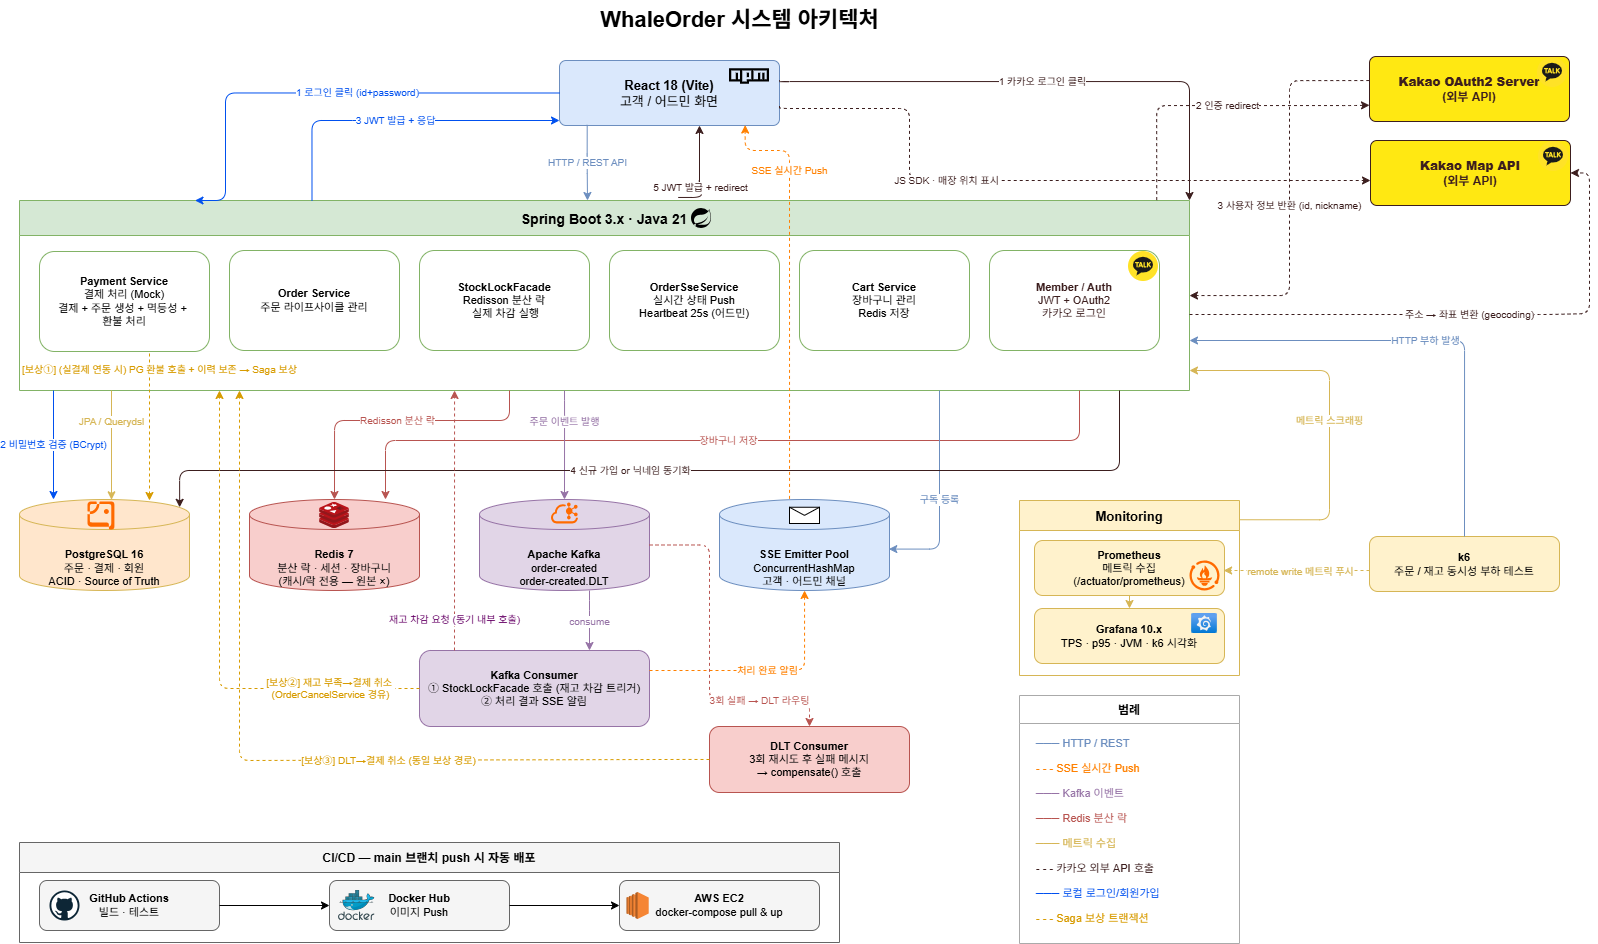
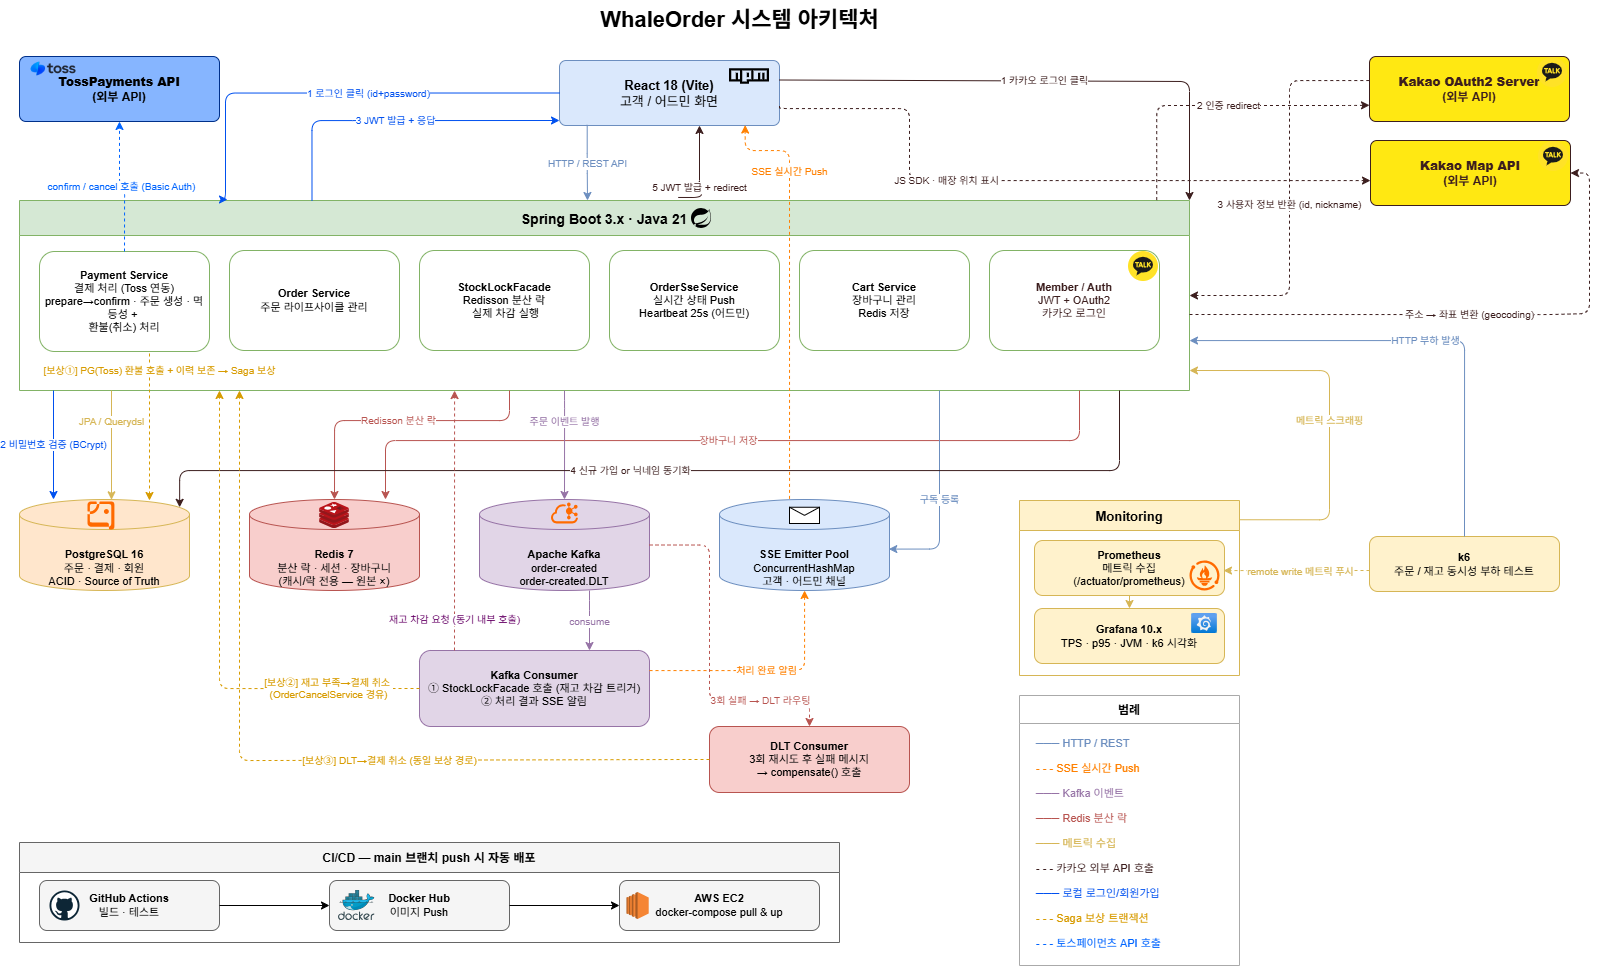
문서 수정

diff --git a/docs/wiki/architecture/overview.md b/docs/wiki/architecture/overview.md
@@ -14,37 +14,49 @@
 | Messaging | Kafka | 주문 처리 비동기화, DLT 기반 보상 트리거 |
 | Monitoring | Prometheus + Grafana + Micrometer | 메트릭 수집/시각화 |
 | 부하 테스트 | k6 | 일반 부하 + 동시성 검증 |
+| 결제 PG | TossPayments 결제위젯 v2 (외부 API) | prepare→confirm 승인/취소 실연동 |
 
-## 주요 흐름 — 선결제
+## 주요 흐름 — 결제(선결제, Toss 연동)
 
 ```
 [Client]
-   │ ① POST /api/payments
+   │ ① POST /api/payments/prepare   (표시 금액 확인)
    ▼
-[PaymentService.pay()]  @Transactional
+[PaymentService.prepare()]  @Transactional
    │ ② 장바구니 + 매장 OPEN + 메뉴 isOnSale + Stock 검증
-   │ ③ SHA-256 멱등성 키 (중복 결제 방어)
-   │ ④ Orders + Payment(PENDING) 저장
-   │ ⑤ Mock 결제 판정 (90% 성공)
-   │ ⑥ 성공: Payment SUCCESS + OrderCreatedEvent publish
-   │ ⑦ 실패: 전체 롤백 + PaymentFailedException
+   │ ③ SHA-256 멱등성 키 (중복 요청 방어)
+   │ ④ Orders(AWAITING_PAYMENT) + Payment(PENDING) 저장
+   │ ⑤ { tossOrderId, amount } 반환
+   ▼
+━ 프런트: 토스 결제위젯(widgets.requestPayment) 오픈 → 사용자 결제 ━
+━ 토스가 successUrl로 리다이렉트 (paymentKey·orderId·amount) ━
+   │
+   ▼ ⑥ POST /api/payments/confirm
+[PaymentService.confirm()]  @Transactional(noRollbackFor=PaymentFailedException)
+   │ ⑦ confirm 전용 멱등성 락 + 표시 금액 재검증
+   │ ⑧ TossPaymentClient.confirm() → 토스 실제 승인 API 호출 (Basic Auth)
+   │ ⑨ 성공: order AWAITING_PAYMENT→PENDING + Payment SUCCESS + OrderCreatedEvent publish
+   │ ⑩ 실패(토스 4xx/5xx): Payment FAILED + order.cancelUnpaid() + PaymentFailedException
    ▼
 ━ TX commit ━
    │
 [OrderEventListener]  @TransactionalEventListener(AFTER_COMMIT)
-   │ ⑧ Kafka publish (order-created) + 장바구니 비우기
+   │ ⑪ Kafka publish (order-created) + 장바구니 비우기
    ▼
 [Kafka: order-created]
-   │ ⑨ Consumer 처리
+   │ ⑫ Consumer 처리
    ▼
 [OrderProcessingService]
-   │ ⑩ 재고 차감 (StockLockFacade — 분산락) + SSE 푸시
-   │ ⑪ 차감 실패 시 부분 복구 + OrderCancelService.cancelOrder()
-   │ ⑫ 3회 재시도 실패 시 DLT → compensate() → 주문/결제 동시 취소
+   │ ⑬ 재고 차감 (StockLockFacade — 분산락) + SSE 푸시
+   │ ⑭ 차감 실패 시 부분 복구 + OrderCancelService.cancelOrder() (Toss 환불 호출 포함)
+   │ ⑮ 3회 재시도 실패 시 DLT → compensate() → 주문/결제 동시 취소 (Toss 환불 포함)
 ```
+
+결제창을 열어놓고 탭을 닫는 등 `confirm`까지 못 간 주문은 `PaymentSweepScheduler`가 5분마다 스캔해 30분 이상 `AWAITING_PAYMENT`인 건을 정리한다.
 
 ## 관련 문서
 
+- [Payment 도메인](../domains/payment.md) — prepare/confirm 상세 흐름, 토스 orderId 변환, 환불 정책
 - [동시성 제어](concurrency-control.md)
 - [실시간 푸시](realtime-sse.md)
 - [Saga 보상 트랜잭션](saga-compensation.md)
